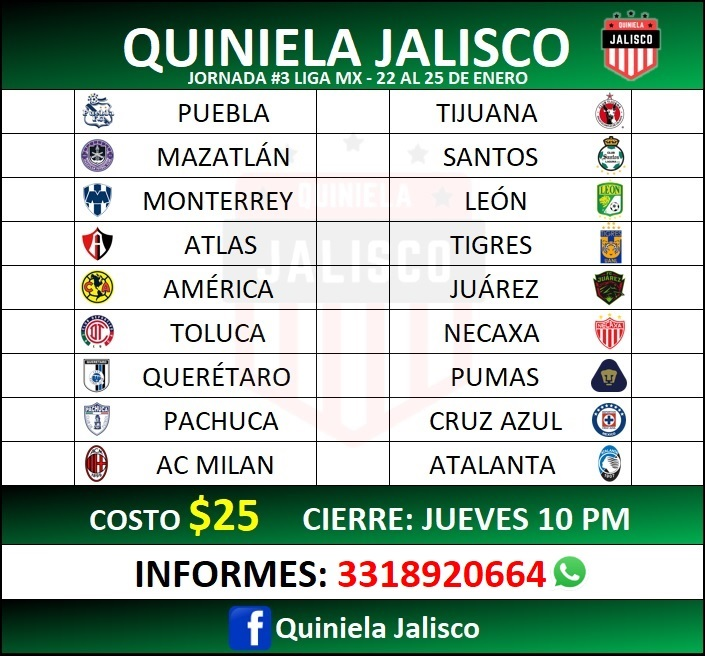
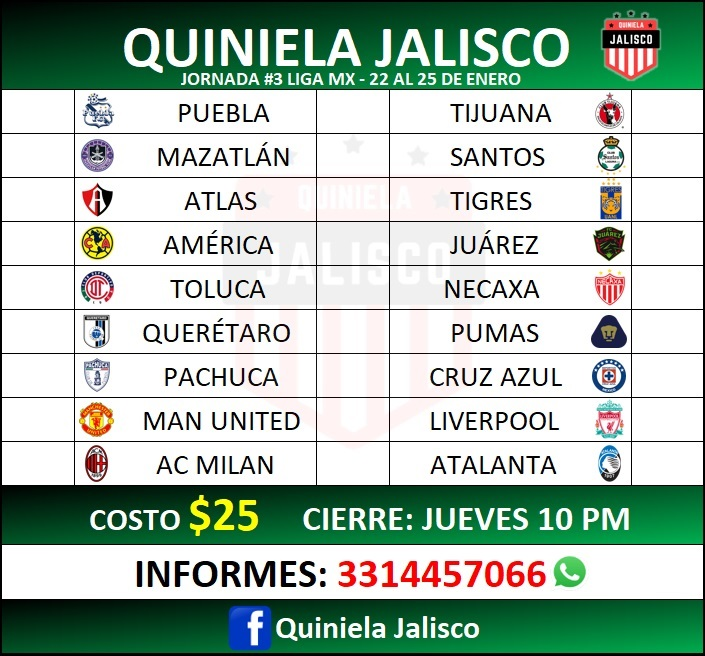
Media Semana #3

diff --git a/MediaSemana/stylesm.css b/MediaSemana/stylesm.css
@@ -7,7 +7,7 @@
 
 .quiniela{
     margin: auto;
-    background-image: url("https://scontent.fgdl9-1.fna.fbcdn.net/v/t1.15752-9/139632005_281212756774242_3761484160178817042_n.png?_nc_cat=107&ccb=2&_nc_sid=ae9488&_nc_eui2=AeGJAHRbJH3Ol3OCTf_j8eVdmOcIMlk5-XqY5wgyWTn5ev0k6ttJTiMSZzL87ZlYUqxNXDxTdbzVe6cNgKUcIxCt&_nc_ohc=-X92D_u1m7UAX9blR0U&_nc_ht=scontent.fgdl9-1.fna&oh=048a2ab74320d1d5b4ac54f0abf50fb4&oe=602710A4");
+    background-image: url("https://scontent.fgdl9-1.fna.fbcdn.net/v/t1.15752-9/139964348_868007087297492_5668140599386436832_n.png?_nc_cat=111&ccb=2&_nc_sid=ae9488&_nc_eui2=AeHyiUfn85fDKfJIeq7u2JsxphDonYvhh3CmEOidi-GHcNKM87T4UZLNHcZNt2zlC4PEQBHtkXX1E9WwO1J2vmkw&_nc_ohc=rfNBHp8vEAIAX_DNHeP&_nc_ht=scontent.fgdl9-1.fna&oh=257c1effe8a7aea2d25ffed3db092d0a&oe=6030FDF7");
     background-size: 100%;
     background-repeat: no-repeat;
     max-width: 400px;
@@ -84,8 +84,8 @@ h1{
     margin-top: 8%;
     border: solid 1px black;
     border-radius: 0 0 20px 20px;
-    background: -webkit-linear-gradient(0.04turn, black  ,rgb(164,0,1) 80%);
-    background: linear-gradient(0.04turn, black  ,rgb(164,0,1) 80%);
+    background: -webkit-linear-gradient(0.04turn, black  ,rgb(70,10,134) 80%);
+    background: linear-gradient(0.04turn, black  ,rgb(70,10,134) 80%);
     font-size: x-large;
 }
 
